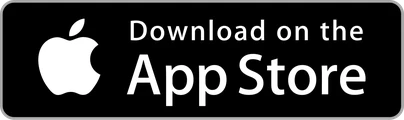
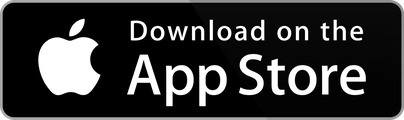
Sync ÖffiGo copy, cross-link oeffigo.app, add Person/WebSite schema
- Positioning: iOS first with Android in the works (was iOS + Android equal),
  in the ÖffiGo section copy, promo note and store badges (Google Play dimmed
  as planned).
- Surface the Wiener Linien realtime overlay for the Vienna subway.
- Add a visible 'Visit oeffigo.app' CTA — the user-facing cross-link.
- SEO: Person + WebSite JSON-LD with sameAs (incl. oeffigo.app), reciprocating
  the ÖffiGo site's author bridge so Google fuses both domains into one entity.
- Also includes the in-progress homepage badge/style tweaks on this branch.

diff --git a/src/data/oeffigo.ts b/src/data/oeffigo.ts
@@ -17,6 +17,8 @@ export interface OeffigoContent {
   status: { en: string; de: string };
   dataNote: { en: string; de: string };
   appStoreUrl: string | null;
+  /** Canonical product site — the cross-link to oeffigo.app for SEO + users. */
+  websiteUrl: string;
   icon: string;
   features: OeffigoFeature[];
   promo: {
@@ -56,21 +58,22 @@ export const oeffigo: OeffigoContent = {
     en: "Real-time departures, journey planning and live disruptions for all of Austria, in a modern, fast interface. ÖffiGo talks straight to the VAO / HAFAS backend — the same data behind the official apps — and presents it faster and clearer, without pretending a schedule is always live.",
     de: "Echtzeit-Abfahrten, Routenplanung und Live-Störungen für ganz Österreich, in einer modernen, schnellen Oberfläche. ÖffiGo spricht direkt mit dem VAO-/HAFAS-Backend — denselben Daten wie die offiziellen Apps — und zeigt sie schneller und übersichtlicher, ohne so zu tun, als wäre der Fahrplan immer live.",
   },
-  platform: { en: "iOS 17+ & Android · Liquid Glass on iOS 26", de: "iOS 17+ & Android · Liquid Glass ab iOS 26" },
+  platform: { en: "iOS 17+, Android in the works · Liquid Glass on iOS 26", de: "iOS 17+, Android in Arbeit · Liquid Glass ab iOS 26" },
   status: { en: "in active development", de: "in aktiver Entwicklung" },
   dataNote: {
-    en: "VAO / HAFAS data for all of Austria — tram, bus, train, S-Bahn, subway, cableway, ship. Realtime where operators provide it.",
-    de: "VAO/HAFAS-Daten für ganz Österreich — Tram, Bus, Bahn, S-Bahn, U-Bahn, Seilbahn, Schiff. Echtzeit dort, wo Betreiber sie liefern.",
+    en: "VAO / HAFAS data for all of Austria — tram, bus, train, S-Bahn, subway, cableway, ship. Realtime where operators provide it, plus Wiener Linien realtime overlaid on the Vienna subway.",
+    de: "VAO/HAFAS-Daten für ganz Österreich — Tram, Bus, Bahn, S-Bahn, U-Bahn, Seilbahn, Schiff. Echtzeit dort, wo Betreiber sie liefern, plus Wiener-Linien-Echtzeit für die Wiener U-Bahn.",
   },
   appStoreUrl: null,
+  websiteUrl: "https://oeffigo.app",
   icon: "/projects/oeffigo/icon.png",
   features: [
     {
       icon: ICONS.clock,
       title: { en: "Live departure board", de: "Live-Abfahrtstafel" },
       body: {
-        en: "Your nearest stop, departures for every mode, and realtime where it's available — including delays, platform changes and disruptions.",
-        de: "Deine nächste Haltestelle, Abfahrten für alle Öffis und Echtzeit dort, wo sie verfügbar ist — inklusive Verspätungen, Steigwechseln und Störungen.",
+        en: "Your nearest stop, departures for every mode, and realtime where it's available — including delays, platform changes and disruptions. For the Vienna subway it even overlays Wiener Linien realtime where VAO ships only a schedule.",
+        de: "Deine nächste Haltestelle, Abfahrten für alle Öffis und Echtzeit dort, wo sie verfügbar ist — inklusive Verspätungen, Steigwechseln und Störungen. Für die Wiener U-Bahn blendet sie sogar die Wiener-Linien-Echtzeit ein, wo die VAO nur den Fahrplan liefert.",
       },
     },
     {
@@ -123,8 +126,8 @@ export const oeffigo: OeffigoContent = {
       de: "Löse zum Release einen Launch-Code ein und erhalte die doppelte Standard-Testphase — genug Zeit, um zu schauen, ob ÖffiGo in deinen Alltag passt.",
     },
     note: {
-      en: "The code drops when ÖffiGo hits the App Store and Google Play. Want it first? Reach out and I'll send it your way.",
-      de: "Der Code kommt, sobald ÖffiGo im App Store und bei Google Play ist. Zuerst dabei sein? Melde dich, dann schicke ich ihn dir.",
+      en: "The code drops when ÖffiGo hits the App Store — iOS first, with Android to follow. Want it first? Reach out and I'll send it your way.",
+      de: "Der Code kommt, sobald ÖffiGo im App Store ist — zuerst für iOS, Android folgt. Zuerst dabei sein? Melde dich, dann schicke ich ihn dir.",
     },
   },
   brand: {

diff --git a/src/styles/global.css b/src/styles/global.css
@@ -484,7 +484,7 @@ nav a:focus-visible,
   color: var(--ogreen-bright, #7be25a);
 }
 
-/* Store badges — small, clean, both stores since ÖffiGo ships on iOS + Android. */
+/* Store badges — App Store first, Google Play planned (dimmed until Android ships). */
 .spotlight-stores {
   display: flex;
   flex-wrap: wrap;
@@ -494,15 +494,47 @@ nav a:focus-visible,
 }
 
 .spotlight-stores img {
-  height: 30px;
+  height: 24px;
   width: auto;
-  border-radius: 7px;
-  opacity: 0.92;
+  opacity: 0.9;
   transition: opacity 200ms var(--smooth);
+}
+
+/* Google Play is planned, not live — mute it so the App Store reads as primary. */
+.spotlight-stores img.spotlight-store--soon {
+  opacity: 0.5;
+  filter: grayscale(0.35);
 }
 
 .spotlight-card--oeffigo:hover .spotlight-stores img {
   opacity: 1;
+}
+
+.spotlight-card--oeffigo:hover .spotlight-stores img.spotlight-store--soon {
+  opacity: 0.7;
+}
+
+/* ÖffiGo section CTA to the product site — the cross-link to oeffigo.app. */
+.oeffigo-actions {
+  margin-top: 18px;
+}
+
+.oeffigo-site-link {
+  display: inline-flex;
+  align-items: center;
+  gap: 7px;
+  padding: 9px 16px;
+  border-radius: 999px;
+  border: 1px solid var(--ogreen, #56c441);
+  color: var(--ogreen-bright, #7be25a);
+  font-weight: 600;
+  text-decoration: none;
+  transition: background 200ms var(--smooth), color 200ms var(--smooth);
+}
+
+.oeffigo-site-link:hover {
+  background: var(--ogreen, #56c441);
+  color: #05210a;
 }
 
 /* "Now shipping" marquee — built from real GitHub release versions. */

diff --git a/src/data/siteMetadata.ts b/src/data/siteMetadata.ts
@@ -3,3 +3,17 @@ export const canonicalOrigin = "https://www.johannesgrof.me";
 export const defaultSocialImage = "/og.png";
 
 export const toCanonicalUrl = (path: string) => new URL(path, canonicalOrigin).toString();
+
+export const author = {
+  name: "Johannes Grof",
+  email: "contact@johannesgrof.me",
+  region: "Südost-Steiermark, Österreich",
+} as const;
+
+// Entity graph for Google: the profiles/products that represent the same maker.
+// Including https://oeffigo.app is what ties this site and the ÖffiGo product
+// site together as one entity (reciprocated by oeffigo.app's own sameAs).
+export const personSameAs = [
+  "https://oeffigo.app",
+  "https://github.com/jx-grxf",
+] as const;
